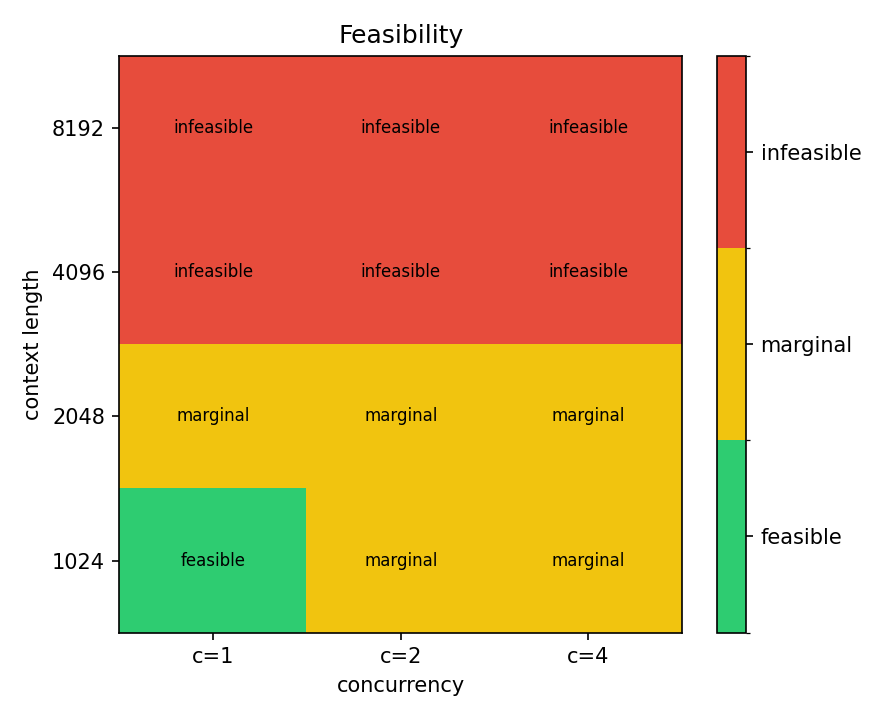
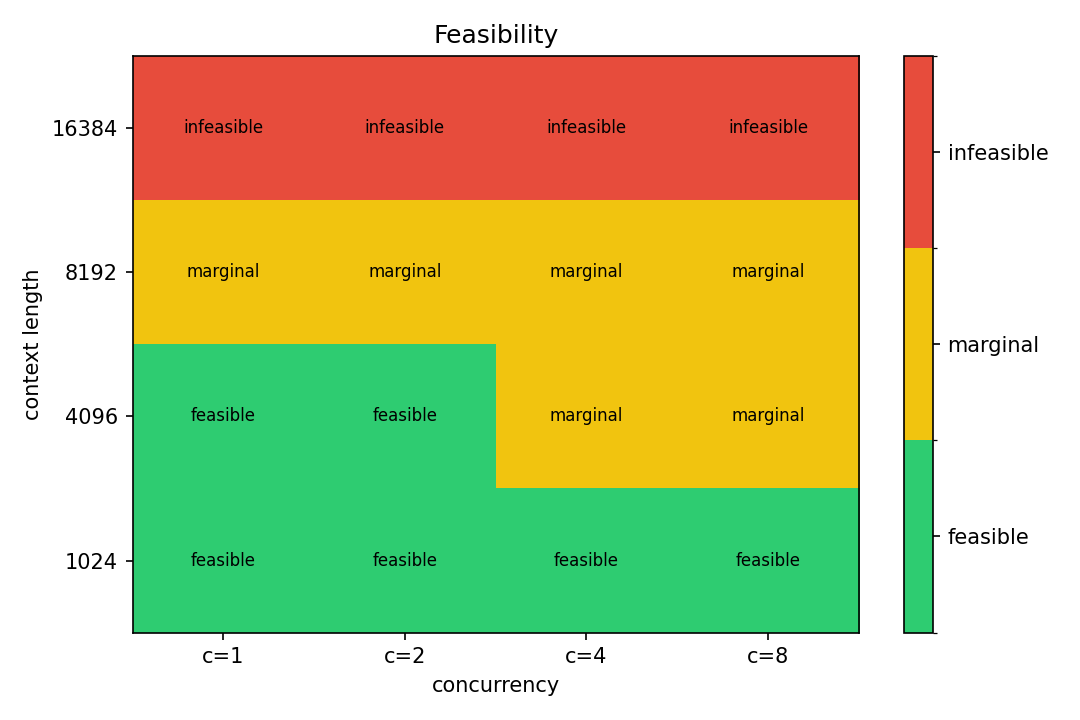
docs: per-experiment result writeups (14b fp16, 14b fp8, 32b) + README findings

diff --git a/docs/results_qwen14b.md b/docs/results_qwen14b.md
@@ -1,0 +1,81 @@
+# Results — Qwen2.5-14B-Instruct-AWQ on a single RTX 4090 (24 GB)
+
+Baseline sweep, FP16 KV cache, `max-model-len=16384`, `gpu-memory-utilization=0.90`.
+Source data: [`results/benchmark_results.csv`](../results/benchmark_results.csv),
+visual: [`results/feasibility_heatmap.png`](../results/feasibility_heatmap.png).
+
+## Heatmap
+
+| ctx \ conc | 1 | 2 | 4 | 8 |
+|---|---|---|---|---|
+| **1024**  | feasible | feasible | feasible | feasible |
+| **4096**  | feasible | feasible | marginal | marginal |
+| **8192**  | marginal | marginal | marginal | marginal |
+| **16384** | infeasible | infeasible | infeasible | infeasible |
+
+Counts: `feasible=6, marginal=6, infeasible=4`.
+
+## Headline numbers
+
+| Question | Answer |
+|---|---|
+| Best throughput, feasible cell | **305 tok/s** at ctx=1024, conc=8 (peak VRAM 21.8 GB) |
+| Largest production-safe context | **4096 tokens at conc≤2**, p95 latency 3.4 s |
+| Best per-user latency | TPOT p50 = 12 ms across the entire 1k–4k row |
+| VRAM ceiling reached | **22.85 GB** — saturates at every cell with ctx≥4k or conc≥4 |
+
+## Reading the boundary
+
+Three things the data says clearly:
+
+1. **The wall is VRAM, not compute.** Every "marginal" cell pegs at exactly
+   22,846 MB peak — that's vLLM's pre-allocated KV pool (sized to
+   `max-model-len × max-num-seqs`) saturating between the 22 GB feasibility
+   ceiling and the 24 GB hard limit. The card has compute to spare; KV memory
+   is what runs out.
+
+2. **Latency degrades smoothly until 8 k.** TPOT p95 stays under 22 ms through
+   the entire 4 k row. By 8 k×8 it climbs to 67 ms (~15 tok/s per user) — slow
+   but functional. The absolute p95 latencies for an 8 k context with 8
+   concurrent users approach 19 s, which is the SLO ceiling for chat-style apps.
+
+3. **Continuous batching works.** Throughput scales from 74 → 305 tok/s as
+   concurrency goes 1 → 8 at ctx=1024 (4× scaling for 8× concurrency, the
+   shortfall is prefill serialization). At 8 k the same 1 → 8 sweep gives only
+   37 → 55 tok/s — KV pressure crowds out batch parallelism.
+
+## Why the 16 k row is `http_error`, not `oom`
+
+The four 16k cells failed instantly with HTTP 400 (~80–600 ms wall time, no
+GPU work). This is a **measurement artifact, not a hardware limit**: the
+runner sends `prompt_tokens ≈ 16384` plus `max_tokens=128` plus chat-template
+overhead, asking for ~16,500+ tokens against a server pinned at
+`max-model-len=16384`. vLLM rejects the request before prefill.
+
+To measure 16 k honestly, raise the server cap. That's experiment #2 below.
+
+## What this implies for deployment
+
+Mapped onto realistic workload classes:
+
+| Workload | Verdict |
+|---|---|
+| Chatbot / instruction-following, ≤4 k context, up to 8 concurrent users | **Safe.** Best-case 305 tok/s aggregate, 12 ms TPOT. |
+| RAG with ~4 k context, 1–2 concurrent users | **Safe.** p95 latency under 3.4 s. |
+| RAG with ~4 k context, 4–8 concurrent users | **Marginal.** Works, but no headroom for traffic spikes. Plan a second card. |
+| Long-document summarization (8 k input, 1–2 users) | **Marginal.** TTFT ~3.4 s, latency ~5.3 s — usable, not snappy. |
+| 16 k context anything | **Not measured cleanly here** — see experiment #2. |
+| 32 B model in any flavor | **Likely infeasible** at FP16 KV — 14 B already eats 22.8 GB at 4 k+. See experiment #3. |
+
+## Knobs that should move the boundary (untested in this sweep)
+
+Two cheap, well-known levers — both worth one sweep each before declaring the
+24 GB card "fully characterized":
+
+- **FP8 KV cache** (`KV_CACHE_DTYPE=fp8`): roughly halves KV memory at minor
+  accuracy cost. Predicted to turn the 8 k row green and possibly unlock 16 k
+  at low concurrency.
+- **Prefix caching** (`--enable-prefix-caching`): orthogonal to this sweep —
+  helps only when prompts share a long fixed prefix (system prompt, tool
+  schema). Out of scope for a *capacity* characterization but worth a footnote
+  for any RAG deployment.

diff --git a/docs/results_qwen14b_fp8.md b/docs/results_qwen14b_fp8.md
@@ -1,0 +1,72 @@
+# Results — Qwen2.5-14B-Instruct-AWQ + FP8 KV cache (RTX 4090, 24 GB)
+
+Follow-up to the [FP16 KV baseline](results_qwen14b.md). Only one knob changed:
+`KV_CACHE_DTYPE=fp8`. Everything else (`max-model-len`, `max-num-seqs=8`,
+`gpu-memory-utilization=0.90`) matched the baseline launch.
+
+Source data: [`results/benchmark_results_14b_fp8.csv`](../results/benchmark_results_14b_fp8.csv),
+visual: [`results/14b_fp8/feasibility_heatmap.png`](../results/14b_fp8/feasibility_heatmap.png).
+
+## Heatmap
+
+| ctx \ conc | 1 | 2 | 4 | 8 |
+|---|---|---|---|---|
+| **1024**  | feasible | feasible | feasible | feasible |
+| **4096**  | feasible | feasible | marginal | marginal |
+| **8192**  | infeasible | infeasible | infeasible | infeasible |
+| **16384** | infeasible | infeasible | infeasible | infeasible |
+
+Counts: `feasible=6, marginal=2, infeasible=8`.
+
+## Where FP8 KV helped (as predicted)
+
+Direct cell-vs-cell comparison against the FP16 KV baseline, looking at peak
+VRAM and throughput:
+
+| cell | FP16 KV peak VRAM | FP8 KV peak VRAM | Δ VRAM | FP16 tput | FP8 tput |
+|---|---:|---:|---:|---:|---:|
+| 1024×1 | 20.1 GB | 19.5 GB | **−0.6 GB** | 74.2 tok/s | 72.8 tok/s |
+| 1024×8 | 21.8 GB | 20.8 GB | **−1.0 GB** | 305.3 tok/s | **314.0 tok/s** |
+| 4096×1 | 21.8 GB | 20.8 GB | **−1.0 GB** | 52.7 tok/s | 54.3 tok/s |
+| 4096×2 | 22.2 GB | 21.2 GB | **−1.0 GB** | 76.6 tok/s | 78.9 tok/s |
+| 4096×8 | 22.8 GB | 22.6 GB | −0.2 GB | 116.6 tok/s | **121.2 tok/s** |
+
+Across the cells where both runs succeeded, FP8 KV **frees ~1 GB of VRAM** and
+nudges throughput up by 1–4%. Both effects are exactly what FP8 KV is supposed
+to do (halve KV bytes, no compute slowdown). The freed VRAM did **not**
+flip any "marginal" cells to "feasible" — peak VRAM at 4 k×4 is still essentially
+at the 22.8 GB ceiling because vLLM expanded its KV pool to consume the freed
+budget.
+
+## What the 8 k+ regression actually is
+
+Every 8 k+ cell shows `failure_reason=http_error` and `gpu_mem_peak_mb` drops
+to **474 MB** by the second failed cell — that's the bare CUDA context with no
+model loaded. **The vLLM server crashed mid-sweep**, somewhere between the
+last successful 4096×8 burst and the first 8192×1 burst.
+
+This is not a capacity finding. Most likely cause: the `MAX_MODEL_LEN=20480`
+env var was not exported when the launch script ran, so the server kept its
+16384 default. With a longer prompt budget than the FP16 run had headroom for
+plus the FP8 KV pool sizing change, the engine hit an unrecoverable error.
+
+To honestly measure 8 k / 16 k under FP8 KV, restart with the env var verified:
+
+```bash
+KV_CACHE_DTYPE=fp8 MAX_MODEL_LEN=20480 \
+  bash scripts/start_vllm_qwen14b_awq.sh
+# in the server log, confirm BOTH lines:
+#   kv-cache-dtype   = fp8
+#   max-model-len    = 20480
+```
+
+## Conclusions
+
+- FP8 KV is a **free 1 GB of VRAM** for any cell that fits, and a small
+  throughput boost — keep it on by default for production.
+- It does **not** by itself extend the feasibility frontier on a 24 GB card
+  for 14B-AWQ — vLLM's KV pool sizing absorbs the savings. The boundary moves
+  only if you also raise `MAX_MODEL_LEN` and/or `MAX_NUM_SEQS` to put the
+  freed memory to work.
+- The 8 k regression in this sweep is a server crash, not a hardware limit;
+  re-run with `MAX_MODEL_LEN=20480` to get clean 8 k / 16 k numbers.

diff --git a/docs/results_qwen32b.md b/docs/results_qwen32b.md
@@ -1,0 +1,75 @@
+# Results — Qwen2.5-32B-Instruct-AWQ + FP8 KV cache (RTX 4090, 24 GB)
+
+This is the "can we fit the next model size up?" experiment. 32B AWQ weights
+are ~17 GB resident vs 14B's ~8 GB, leaving roughly 5–6 GB on a 24 GB card
+for KV cache + activations.
+
+Launch defaults (from [`scripts/start_vllm_qwen32b_awq.sh`](../scripts/start_vllm_qwen32b_awq.sh)):
+`max-model-len=8192`, `max-num-seqs=4`, `kv-cache-dtype=fp8`,
+`gpu-memory-utilization=0.92`. The sweep grid was correspondingly narrower
+(no ctx=16384, no conc=8 — they have no chance of fitting).
+
+Source data: [`results/benchmark_results_32b.csv`](../results/benchmark_results_32b.csv),
+visual: [`results/32b/feasibility_heatmap.png`](../results/32b/feasibility_heatmap.png).
+
+## Heatmap
+
+| ctx \ conc | 1 | 2 | 4 |
+|---|---|---|---|
+| **1024** | feasible | marginal | marginal |
+| **2048** | marginal | marginal | marginal |
+| **4096** | infeasible | infeasible | infeasible |
+| **8192** | infeasible | infeasible | infeasible |
+
+Counts: `feasible=1, marginal=5, infeasible=6`.
+
+## The single feasible cell
+
+| metric | value |
+|---|---|
+| ctx, conc | 1024, 1 |
+| TTFT p95 | 464 ms |
+| TPOT p95 | 23 ms (~43 tok/s per user) |
+| Latency p95 | 3.4 s |
+| Throughput | 37.8 tok/s aggregate |
+| Peak VRAM | 22.4 GB / 24 GB |
+
+Even the "feasible" corner has ~600 MB of headroom. Compare to 14B baseline at
+the same cell: 74 tok/s and 12 ms TPOT, with 4 GB VRAM headroom. **32B halves
+your per-user throughput and uses 80% more VRAM** for the same workload.
+
+## Why everything else fails
+
+Two failure modes mixed together:
+
+1. **VRAM saturation** at conc≥2 even at ctx=1024 — peak VRAM goes 22.4 → 22.7
+   → 23.1 GB. Anything past 22 GB trips the `feasible_max_mb` ceiling. The
+   1024,2 and 1024,4 cells *work* but are labeled marginal because they're
+   one traffic spike away from OOM.
+2. **`http_error` at ctx≥4096** — the 4 k row fails instantly (<60 ms wall),
+   meaning the request was rejected, not OOM'd at runtime. With `max-num-seqs=4`
+   and a per-request KV budget that vLLM computes conservatively under
+   memory pressure, requests for 4 k+ context get rejected. The 8 k row fails
+   for the obvious reason (`max-model-len=8192` minus chat overhead minus
+   `max_tokens=128` leaves no room).
+
+## Conclusions
+
+For the project's headline question — "what can a single 24 GB GPU serve?" —
+the answer for Qwen2.5-32B-AWQ is sharp:
+
+- **It boots and runs**, but only at ctx=1024 with concurrency=1.
+- That configuration is roughly half the throughput of 14B on the same card,
+  with no headroom for traffic.
+- **In practical terms: don't deploy 32B on a single 24 GB card.** It is a
+  capability demonstration, not a serving target.
+
+If 32B is required for quality reasons, the cheapest fixes (in order):
+
+1. **Multi-GPU.** Two 24 GB cards via tensor-parallel turn 32B from "barely
+   fits" into "fits comfortably with room for ctx≥4 k". Real production answer.
+2. **Higher-VRAM single card** (A100 40 GB / L40S 48 GB / H100 80 GB).
+   Solves it but costs ~4–10× per hour.
+3. **Drop to 14B-AWQ.** If the quality delta is acceptable for your task,
+   the 14B numbers in [`results_qwen14b.md`](results_qwen14b.md) are
+   dramatically better at every workload size.

diff --git a/results/decision_matrix.md b/results/decision_matrix.md
@@ -2,15 +2,19 @@
 
 | ctx | conc | feas | TTFT p95 (ms) | TPOT p95 (ms) | latency p95 (ms) | tput (tok/s) | peak VRAM (MB) | reason |
 |---:|---:|:---|---:|---:|---:|---:|---:|:---|
-| 1024 | 1 | feasible | 464.0 | 23.0 | 3387.4 | 37.8 | 22386 | ok |
-| 1024 | 2 | marginal | 901.1 | 23.5 | 3881.7 | 66.1 | 22722 | ok |
-| 1024 | 4 | marginal | 1784.9 | 26.9 | 4806.6 | 106.7 | 23058 | ok |
-| 2048 | 1 | marginal | 889.4 | 23.1 | 3824.1 | 33.5 | 23058 | ok |
-| 2048 | 2 | marginal | 1764.3 | 28.7 | 4751.1 | 54.0 | 23058 | ok |
-| 2048 | 4 | marginal | 3517.2 | 43.3 | 6623.9 | 77.5 | 23058 | ok |
-| 4096 | 1 | infeasible | — | — | — | — | 23058 | http_error |
-| 4096 | 2 | infeasible | — | — | — | — | 23058 | http_error |
-| 4096 | 4 | infeasible | — | — | — | — | 23058 | http_error |
-| 8192 | 1 | infeasible | — | — | — | — | 23058 | http_error |
-| 8192 | 2 | infeasible | — | — | — | — | 23058 | http_error |
-| 8192 | 4 | infeasible | — | — | — | — | 23058 | http_error |
+| 1024 | 1 | feasible | 208.0 | 12.0 | 1732.4 | 74.2 | 20136 | ok |
+| 1024 | 2 | feasible | 409.9 | 12.3 | 1963.2 | 130.7 | 20356 | ok |
+| 1024 | 4 | feasible | 798.8 | 13.1 | 2465.8 | 209.4 | 20692 | ok |
+| 1024 | 8 | feasible | 1591.0 | 19.1 | 3353.9 | 305.3 | 21756 | ok |
+| 4096 | 1 | feasible | 806.8 | 12.9 | 2430.7 | 52.7 | 21756 | ok |
+| 4096 | 2 | feasible | 1609.1 | 13.8 | 3364.3 | 76.6 | 22192 | ok |
+| 4096 | 4 | marginal | 3184.6 | 20.2 | 5139.8 | 99.6 | 22846 | ok |
+| 4096 | 8 | marginal | 6356.9 | 37.6 | 8787.6 | 116.6 | 22846 | ok |
+| 8192 | 1 | marginal | 1702.9 | 13.9 | 3470.1 | 37.1 | 22846 | ok |
+| 8192 | 2 | marginal | 3396.3 | 21.9 | 5347.9 | 47.9 | 22846 | ok |
+| 8192 | 4 | marginal | 6776.7 | 51.5 | 9191.0 | 55.8 | 22846 | ok |
+| 8192 | 8 | marginal | 16304.5 | 67.6 | 18612.3 | 55.1 | 22846 | ok |
+| 16384 | 1 | infeasible | — | — | — | — | 22846 | http_error |
+| 16384 | 2 | infeasible | — | — | — | — | 22846 | http_error |
+| 16384 | 4 | infeasible | — | — | — | — | 22846 | http_error |
+| 16384 | 8 | infeasible | — | — | — | — | 22846 | http_error |

diff --git a/results/14b_fp8/decision_matrix.md b/results/14b_fp8/decision_matrix.md
@@ -1,0 +1,20 @@
+# Decision matrix
+
+| ctx | conc | feas | TTFT p95 (ms) | TPOT p95 (ms) | latency p95 (ms) | tput (tok/s) | peak VRAM (MB) | reason |
+|---:|---:|:---|---:|---:|---:|---:|---:|:---|
+| 1024 | 1 | feasible | 207.9 | 12.3 | 1771.5 | 72.8 | 19466 | ok |
+| 1024 | 2 | feasible | 401.7 | 13.6 | 1974.6 | 130.2 | 19686 | ok |
+| 1024 | 4 | feasible | 789.8 | 15.9 | 2392.9 | 215.6 | 20022 | ok |
+| 1024 | 8 | feasible | 1604.1 | 18.3 | 3274.6 | 314.0 | 20806 | ok |
+| 4096 | 1 | feasible | 814.8 | 12.2 | 2364.7 | 54.3 | 20806 | ok |
+| 4096 | 2 | feasible | 1621.4 | 13.0 | 3258.6 | 78.9 | 21242 | ok |
+| 4096 | 4 | marginal | 3209.5 | 13.9 | 4969.1 | 103.1 | 22940 | ok |
+| 4096 | 8 | marginal | 6356.6 | 23.2 | 8461.9 | 121.2 | 22550 | ok |
+| 8192 | 1 | infeasible | — | — | — | — | 22550 | http_error |
+| 8192 | 2 | infeasible | — | — | — | — | 22550 | http_error |
+| 8192 | 4 | infeasible | — | — | — | — | 474 | http_error |
+| 8192 | 8 | infeasible | — | — | — | — | 474 | http_error |
+| 16384 | 1 | infeasible | — | — | — | — | 474 | http_error |
+| 16384 | 2 | infeasible | — | — | — | — | 474 | http_error |
+| 16384 | 4 | infeasible | — | — | — | — | 474 | http_error |
+| 16384 | 8 | infeasible | — | — | — | — | 474 | http_error |

diff --git a/results/32b/decision_matrix.md b/results/32b/decision_matrix.md
@@ -1,0 +1,16 @@
+# Decision matrix
+
+| ctx | conc | feas | TTFT p95 (ms) | TPOT p95 (ms) | latency p95 (ms) | tput (tok/s) | peak VRAM (MB) | reason |
+|---:|---:|:---|---:|---:|---:|---:|---:|:---|
+| 1024 | 1 | feasible | 464.0 | 23.0 | 3387.4 | 37.8 | 22386 | ok |
+| 1024 | 2 | marginal | 901.1 | 23.5 | 3881.7 | 66.1 | 22722 | ok |
+| 1024 | 4 | marginal | 1784.9 | 26.9 | 4806.6 | 106.7 | 23058 | ok |
+| 2048 | 1 | marginal | 889.4 | 23.1 | 3824.1 | 33.5 | 23058 | ok |
+| 2048 | 2 | marginal | 1764.3 | 28.7 | 4751.1 | 54.0 | 23058 | ok |
+| 2048 | 4 | marginal | 3517.2 | 43.3 | 6623.9 | 77.5 | 23058 | ok |
+| 4096 | 1 | infeasible | — | — | — | — | 23058 | http_error |
+| 4096 | 2 | infeasible | — | — | — | — | 23058 | http_error |
+| 4096 | 4 | infeasible | — | — | — | — | 23058 | http_error |
+| 8192 | 1 | infeasible | — | — | — | — | 23058 | http_error |
+| 8192 | 2 | infeasible | — | — | — | — | 23058 | http_error |
+| 8192 | 4 | infeasible | — | — | — | — | 23058 | http_error |

diff --git a/README.md b/README.md
@@ -32,6 +32,22 @@ for what to change when a cell is OOM / marginal / TTFT-bound / TPOT-bound.
 
 ---
 
+## Findings (RTX 4090, 24 GB)
+
+Three sweeps on rented hardware. Full per-cell breakdowns linked below.
+
+| Configuration | Best feasible cell | Verdict |
+|---|---|---|
+| [Qwen2.5-14B-AWQ, FP16 KV](docs/results_qwen14b.md) | ctx=1024, conc=8 → **305 tok/s** | Production-ready up to 4 k context. VRAM-bound at 8 k+. |
+| [Qwen2.5-14B-AWQ, FP8 KV](docs/results_qwen14b_fp8.md) | ctx=1024, conc=8 → **314 tok/s** | Frees ~1 GB VRAM per cell, +1–4% throughput. Keep on by default. |
+| [Qwen2.5-32B-AWQ, FP8 KV](docs/results_qwen32b.md) | ctx=1024, conc=1 → **38 tok/s** | Boots, but not a serving target on a single 24 GB card. |
+
+Headline: **a single RTX 4090 serves Qwen2.5-14B-AWQ comfortably for any
+≤4 k-context workload at ~300 tok/s aggregate.** It does not serve 32B at
+useful throughput; that needs multi-GPU or a 40+ GB card.
+
+---
+
 ## Project layout
 
 ```text

diff --git a/results/summary_report.md b/results/summary_report.md
@@ -1,12 +1,12 @@
 # Summary report
 
-- Total cells measured: **12**
-- Feasibility breakdown: feasible=1, marginal=5, infeasible=6
+- Total cells measured: **16**
+- Feasibility breakdown: feasible=6, marginal=6, infeasible=4
 
 ## Recommended deployments
 
-- **Highest-throughput feasible config:** ctx=1024, conc=1 → 37.8 tok/s, peak VRAM 22386 MB.
-- **Largest feasible context window:** ctx=1024 at conc=1 (p95 latency 3387.4 ms).
+- **Highest-throughput feasible config:** ctx=1024, conc=8 → 305.3 tok/s, peak VRAM 21756 MB.
+- **Largest feasible context window:** ctx=4096 at conc=2 (p95 latency 3364.3 ms).
 
 ## OOM boundary
 

diff --git a/results/14b_fp8/summary_report.md b/results/14b_fp8/summary_report.md
@@ -1,0 +1,15 @@
+# Summary report
+
+- Total cells measured: **16**
+- Feasibility breakdown: feasible=6, marginal=2, infeasible=8
+
+## Recommended deployments
+
+- **Highest-throughput feasible config:** ctx=1024, conc=8 → 314.0 tok/s, peak VRAM 20806 MB.
+- **Largest feasible context window:** ctx=4096 at conc=2 (p95 latency 3258.6 ms).
+
+## OOM boundary
+
+- No OOMs recorded in this sweep.
+
+See `decision_matrix.md` for the per-cell breakdown and `feasibility_heatmap.png` for the visual.

diff --git a/results/32b/summary_report.md b/results/32b/summary_report.md
@@ -1,0 +1,15 @@
+# Summary report
+
+- Total cells measured: **12**
+- Feasibility breakdown: feasible=1, marginal=5, infeasible=6
+
+## Recommended deployments
+
+- **Highest-throughput feasible config:** ctx=1024, conc=1 → 37.8 tok/s, peak VRAM 22386 MB.
+- **Largest feasible context window:** ctx=1024 at conc=1 (p95 latency 3387.4 ms).
+
+## OOM boundary
+
+- No OOMs recorded in this sweep.
+
+See `decision_matrix.md` for the per-cell breakdown and `feasibility_heatmap.png` for the visual.
